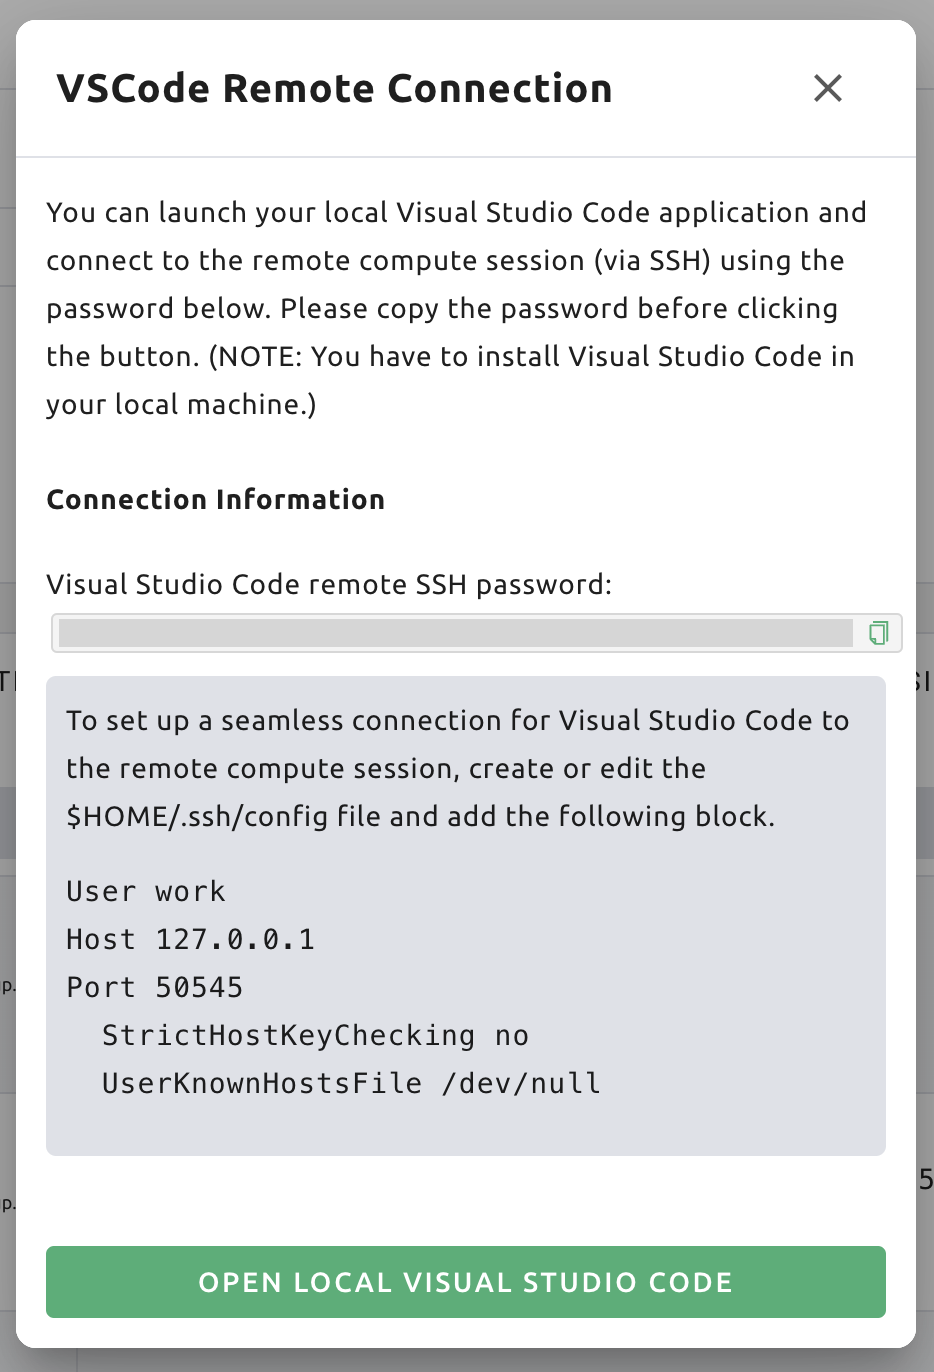
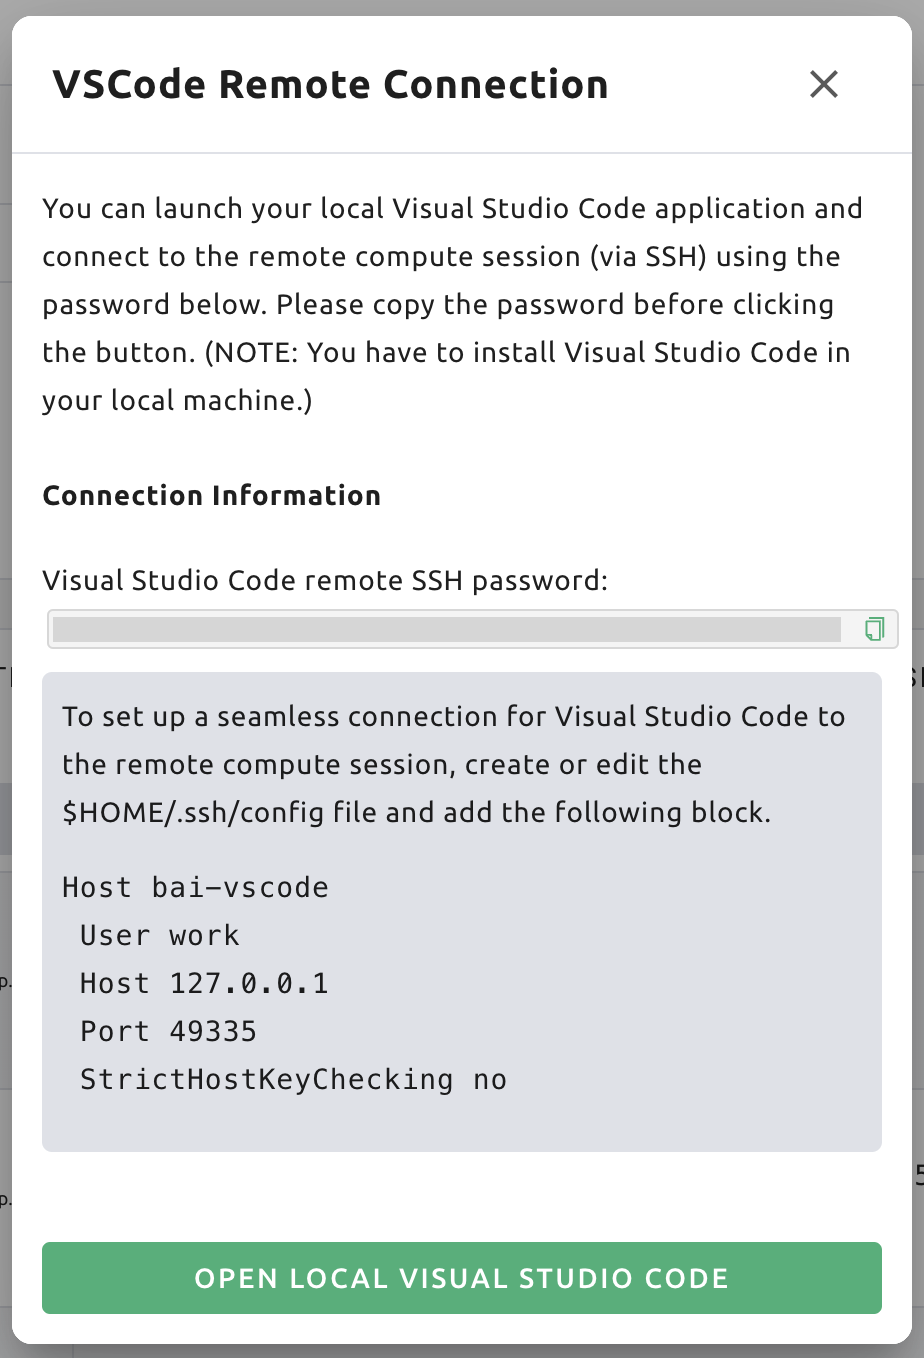
docs: update connection example

diff --git a/docs/sftp_to_container/sftp_to_container.rst b/docs/sftp_to_container/sftp_to_container.rst
@@ -194,12 +194,14 @@ to download the Visual Studio Code remote SSH password. Also, remember the port 
 
 Then, set the SSH config file. Edit the ``~/.ssh/config`` file (for Linux/Mac)
 or ``C:\Users\[user name]\.ssh\config`` (for Windows) and add the following block.
+For convenience, we set the hostname to ``bai-vscode``. It can be changed to any alias.
 
 .. code-block::
 
-     User work
-     Host 127.0.0.1
-     Port 50545  # write down the port number that you remembered
+   Host bai-vscode
+      User work
+      Host 127.0.0.1
+      Port 49335 # write down the port number that you remembered
       StrictHostKeyChecking no
       UserKnownHostsFile /dev/null
 
